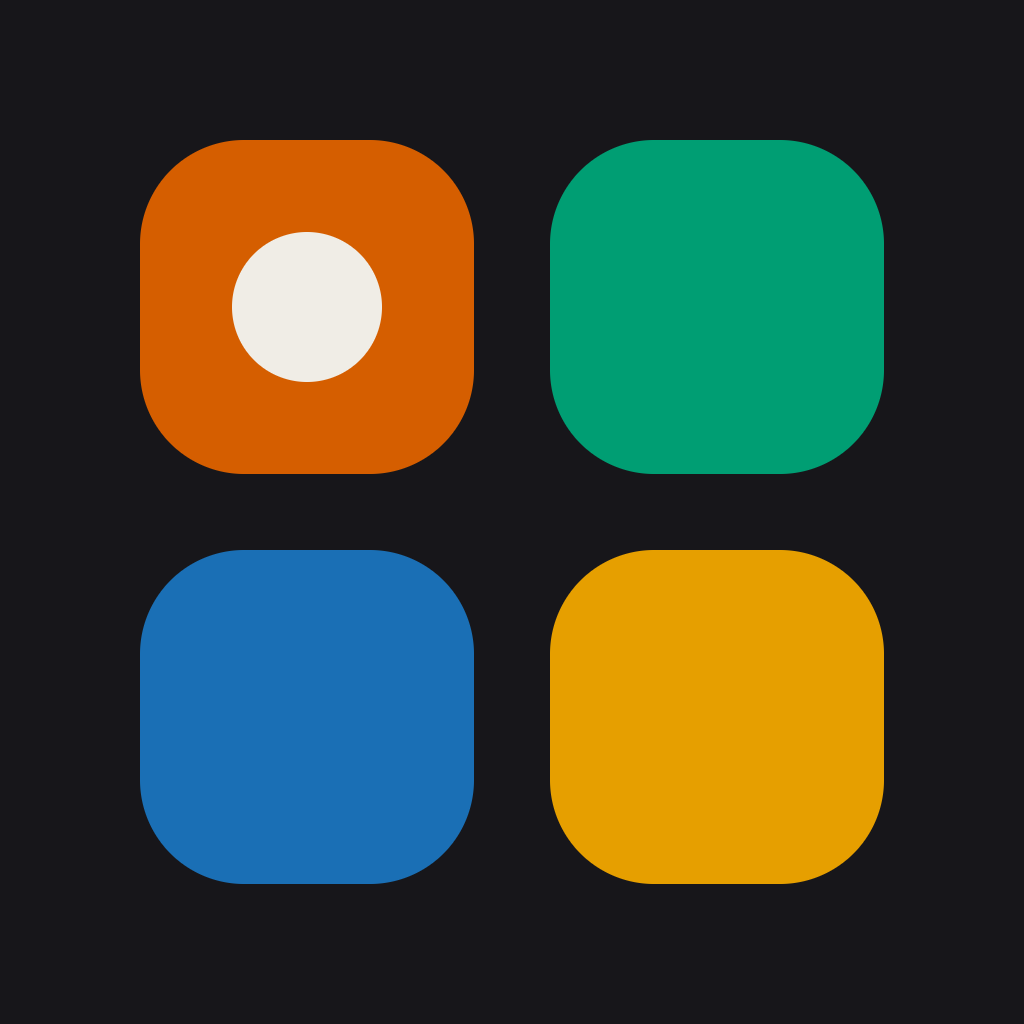
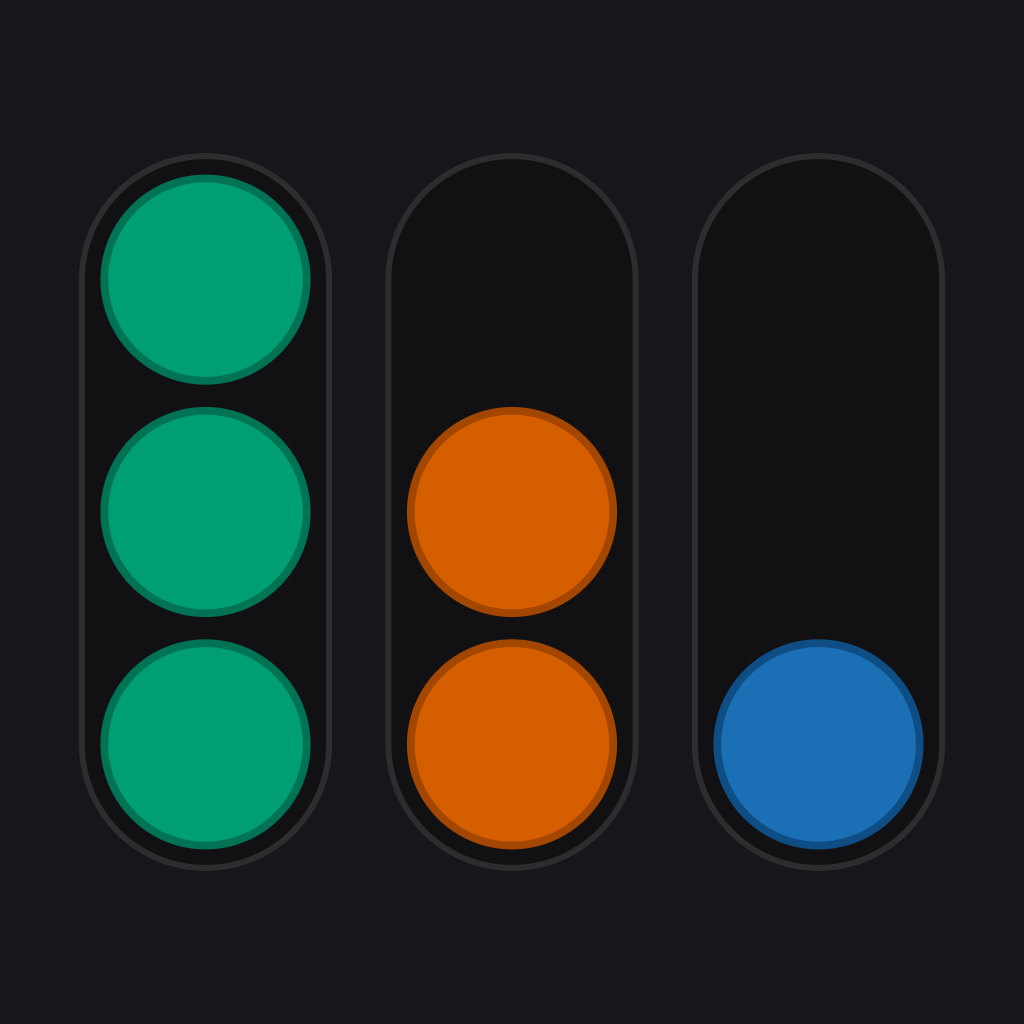
Redraw the mark as three staggered lanes
The old mark was four quadrants around a centre - a Ludo board, which is not
this game. The new one is three lanes on a descending stagger: Emerald filled
to the brim, Vermilion two deep, Sky holding one. Colour being gathered lane by
lane, which is the whole game in one glyph.

An earlier pass used a full green lane beside a single amber disc and read
unmistakably as a traffic light; spreading the palette across the wheel and
breaking the symmetry removes the association.

`scripts/generate-icons.mjs` draws every launcher asset from the same
proportions the component uses, with no dependencies - shapes are rasterised
from signed distance fields, so a 1024px sheet costs 16MB rather than the 500MB
a supersampled pass would.

diff --git a/src/components/Logo.tsx b/src/components/Logo.tsx
@@ -1,34 +1,67 @@
 import { StyleSheet, View } from 'react-native';
-import { tokenColors } from '@/design/tokens';
+import { surface, tokenColors } from '@/design/tokens';
 
 /**
- * The mark: four quadrants around a centre, the shape every Ludo board shares, with one
- * token resting in its home. Drawn from the gameplay palette so the icon and the board
- * are made of the same material.
+ * The mark: three lanes on a descending stagger - one filled to the brim, one two deep,
+ * one holding a single disc. Colour being gathered lane by lane, which is the whole game.
+ *
+ * Drawn from the gameplay palette and the lane's own recess, so the mark and the board are
+ * made of the same material. `scripts/generate-icons.mjs` draws the launcher assets from
+ * these exact proportions; change one and change the other.
  */
+
+/** Felt visible around a disc inside its lane, as a share of the lane's width. */
+const LANE_PAD = 0.075;
+const DISC = 1 - 2 * LANE_PAD;
+/** Discs must read as separate pieces, never as one poured bar. */
+const SLOT_GAP = 0.09;
+const LANE_GAP = 0.24;
+const DEPTH = 3;
+/** Lane height in lane-widths. One number - `size` - sets every other dimension. */
+const LANE_H = 2 * LANE_PAD + DEPTH * DISC + (DEPTH - 1) * SLOT_GAP;
+/** A token is a flat fill with a 2px inset rim at 54pt: 3.7% of its diameter. */
+const RIM = 0.037;
+
+const VERMILION = 0;
+const SKY = 1;
+const EMERALD = 2;
+const LANES = [
+  { held: 3, colorId: EMERALD },
+  { held: 2, colorId: VERMILION },
+  { held: 1, colorId: SKY },
+];
+
 export function Logo({ size = 44 }: { size?: number }) {
-  const cell = size * 0.44;
-  const gap = size * 0.12;
-  const dot = cell * 0.46;
-  const quadrants = [0, 2, 1, 3];
+  const laneW = size / LANE_H;
+  const pad = laneW * LANE_PAD;
+  const disc = laneW * DISC;
+  const rim = Math.max(1, disc * RIM);
 
   return (
-    <View style={[styles.grid, { width: size, height: size, gap }]}>
-      {quadrants.map((colorIndex, i) => {
-        const palette = tokenColors[colorIndex]!;
+    <View style={[styles.row, { height: size, gap: laneW * LANE_GAP }]}>
+      {LANES.map((lane, i) => {
+        const palette = tokenColors[lane.colorId]!;
         return (
           <View
             key={i}
             style={[
-              styles.cell,
-              { width: cell, height: cell, borderRadius: cell * 0.32, backgroundColor: `${palette.fill}4D` },
+              styles.lane,
+              { width: laneW, borderRadius: laneW / 2, padding: pad, gap: laneW * SLOT_GAP },
             ]}
           >
-            {i === 0 ? (
+            {Array.from({ length: lane.held }, (_, k) => (
               <View
-                style={{ width: dot, height: dot, borderRadius: dot, backgroundColor: palette.fill }}
+                key={k}
+                style={{
+                  width: disc,
+                  height: disc,
+                  borderRadius: disc / 2,
+                  backgroundColor: palette.fill,
+                  borderColor: palette.shade,
+                  borderWidth: rim,
+                }}
               />
-            ) : null}
+            ))}
           </View>
         );
       })}
@@ -37,6 +70,12 @@ export function Logo({ size = 44 }: { size?: number }) {
 }
 
 const styles = StyleSheet.create({
-  grid: { flexDirection: 'row', flexWrap: 'wrap' },
-  cell: { alignItems: 'center', justifyContent: 'center' },
+  row: { flexDirection: 'row', alignItems: 'stretch' },
+  lane: {
+    // Discs settle on the base, the way they do on the board.
+    justifyContent: 'flex-end',
+    backgroundColor: surface.recess,
+    borderWidth: StyleSheet.hairlineWidth,
+    borderColor: surface.hairline,
+  },
 });

diff --git a/DESIGN.md b/DESIGN.md
@@ -20,13 +20,20 @@ Depth comes from a single soft shadow tinted to the paper hue, never from a dark
 
 Surface palette. One accent. No purple, no neon, no pure black.
 
-- **Board Linen** (`#F2EEE6`) — the board surface, the app's default background
-- **Chalk** (`#FBF9F5`) — sheets, cards, raised panels
-- **Ink** (`#1C1B19`) — primary text and the board's drawn lines
-- **Graphite** (`#6E6A63`) — secondary text, metadata, inactive states
-- **Hairline** (`rgba(28,27,25,0.10)`) — 1px structural rules and lane borders
-- **Recess** (`rgba(28,27,25,0.045)`) — the inside of an empty lane, a printed depression
-- **Saffron** (`#C8801F`) — the single accent: primary CTA, focus ring, active state
+The board is dark. §1 asks for a low lamp, and a saturated disc carries further on
+charcoal than it does on paper — which matters when colour *is* the mechanic.
+
+- **Board** (`#17161A`) — deep charcoal felt, the app's default background. Never `#000`:
+  pure black reads as a hole, not a surface
+- **Chalk** (`#201F25`) — sheets, cards and controls, one step up so panels lift off the felt
+- **Ink** (`#F0EDE6`) — primary text and drawn lines, warm off-white to match the felt
+- **Graphite** (`#98938B`) — secondary text, metadata, inactive states
+- **Hairline** (`rgba(240,237,230,0.13)`) — 1px structural rules and lane borders
+- **Recess** (`rgba(0,0,0,0.26)`) — the inside of an empty lane. A well cut *into* the felt,
+  so it goes darker, not lighter
+- **Baseline** (`rgba(240,237,230,0.20)`) — the printed rule along a lane's base
+- **Saffron** (`#E0952B`) — the single accent: primary CTA, focus ring, active state.
+  Lifted in luminance from the token saffron so it carries on a dark ground
 
 ### Token palette
 
@@ -63,7 +70,32 @@ so the eye skips them and reads the revealed pieces first.
 
 **Banned:** Inter. System-default font stacks for anything above body text. All serifs.
 
-## 4. Component Stylings
+## 4. The Mark
+
+Three lanes on a descending stagger: Emerald filled to the brim, Vermilion two deep, Sky
+holding one. Colour being gathered lane by lane — the whole game in one glyph, reading as a
+diagonal from the top left, the direction an eye already travels.
+
+The mark is built from the board's own parts. A lane is the same recessed capsule with the
+same hairline edge; a disc is the same flat fill with the same inset rim. Nothing in the
+icon is drawn only for the icon.
+
+- **Proportions** are multiples of a lane's width, so one number sets the mark at any size:
+  lane padding `0.075`, disc `0.85`, slot gap `0.09`, lane gap `0.24`, rim `0.037` of a
+  disc. Depth 3 gives a lane height of `2.88` and a mark aspect of `1.208` wide to tall.
+- **Three hues, not two.** An earlier pass — a full green lane beside a single amber disc —
+  read unmistakably as a traffic light. Spreading the palette across the wheel and breaking
+  the symmetry removes the association.
+- **The discs carry it alone at small sizes.** Lane edges fall below a pixel by 58pt, which
+  is fine: the stagger is legible in monochrome and with the lanes gone entirely.
+- **Android monochrome** keeps the discs solid and drops the lanes to 40% — the same
+  silhouette, no colour required.
+
+`src/components/Logo.tsx` draws it in the app and `scripts/generate-icons.mjs` draws every
+launcher asset, from the same constants. Change one and change the other; `npm run icons`
+redraws the PNGs.
+
+## 5. Component Stylings
 
 - **Tokens** — a flat filled circle with a 2px inset rim in the colour's shade. No
   gradient, no specular highlight, no drop shadow. A carrom striker, not a marble.
@@ -78,7 +110,7 @@ so the eye skips them and reads the revealed pieces first.
 - **Empty states** — a composed illustration of the board's own vocabulary (an empty lane,
   a scattered token) with one clear action. Never the words "No data".
 
-## 5. Layout Principles
+## 6. Layout Principles
 
 - The board is the hero and is vertically centred in the remaining space after the HUD.
 - Lanes wrap into at most two rows, sized to fit the narrowest supported viewport without
@@ -120,7 +152,7 @@ Info.plist rather than at runtime.
   functions and they are tested.
 - Safe-area insets respected on every screen; nothing sits under the notch or home bar.
 
-## 6. Motion & Interaction
+## 7. Motion & Interaction
 
 - **Spring physics everywhere:** `damping 20, stiffness 100`. No linear easing.
 - **The fall is an arc, not a tween.** Lift the token clear of its lane, travel along a
@@ -141,7 +173,7 @@ Info.plist rather than at runtime.
 **Interaction model:** tap a lane to lift, tap a second lane to pour, tap the lifted lane
 again to cancel. One-handed and unambiguous. Drag is out of scope.
 
-## 7. Anti-Patterns (Banned)
+## 8. Anti-Patterns (Banned)
 
 - No emojis anywhere in the UI
 - No Inter, no system font stacks, no serifs
